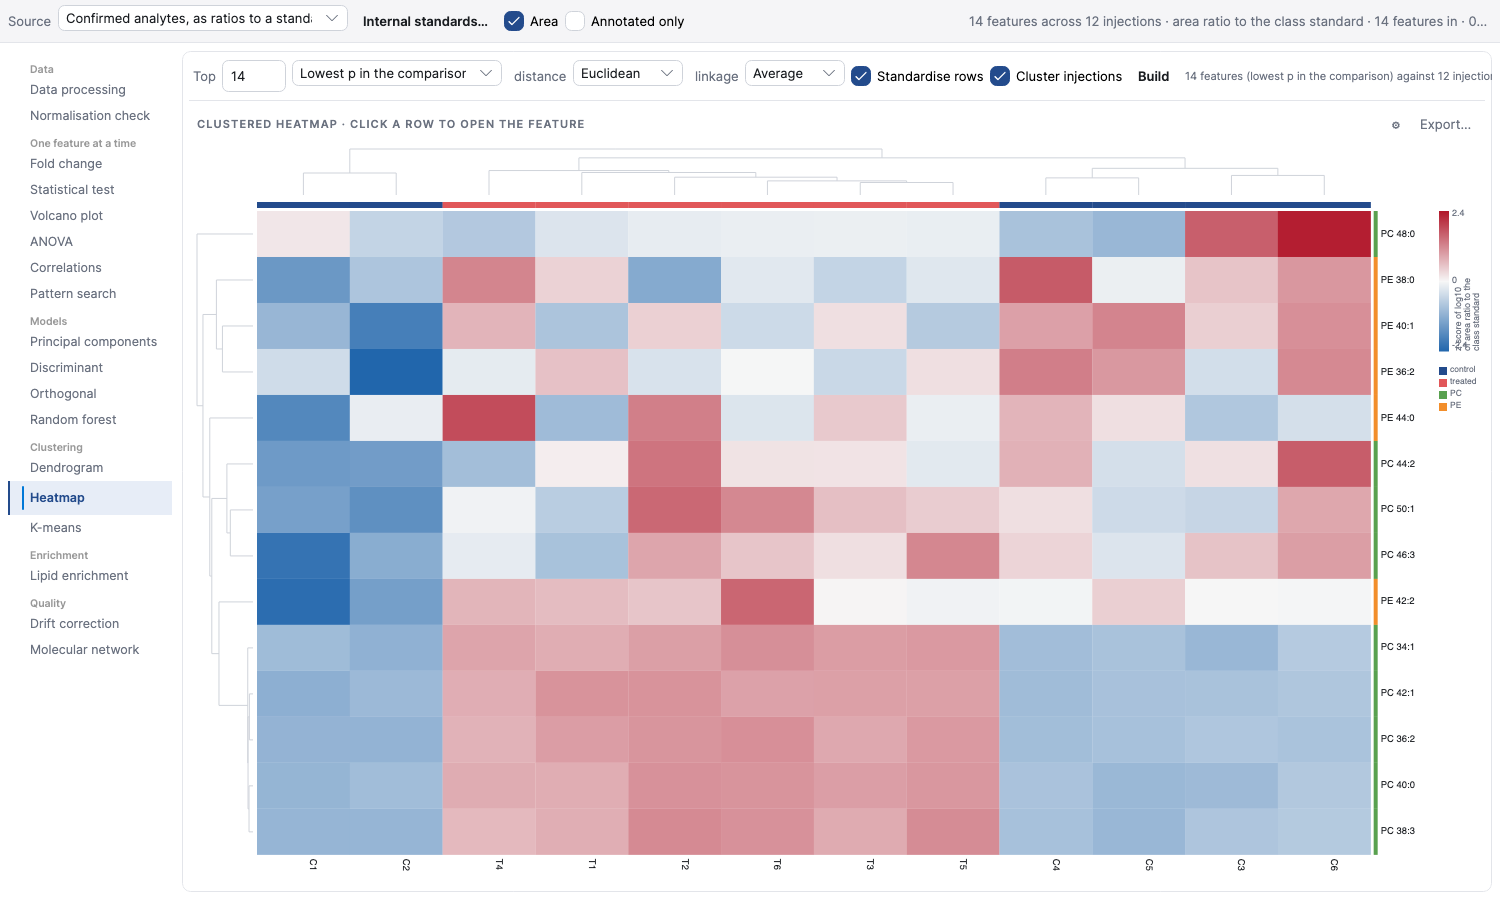
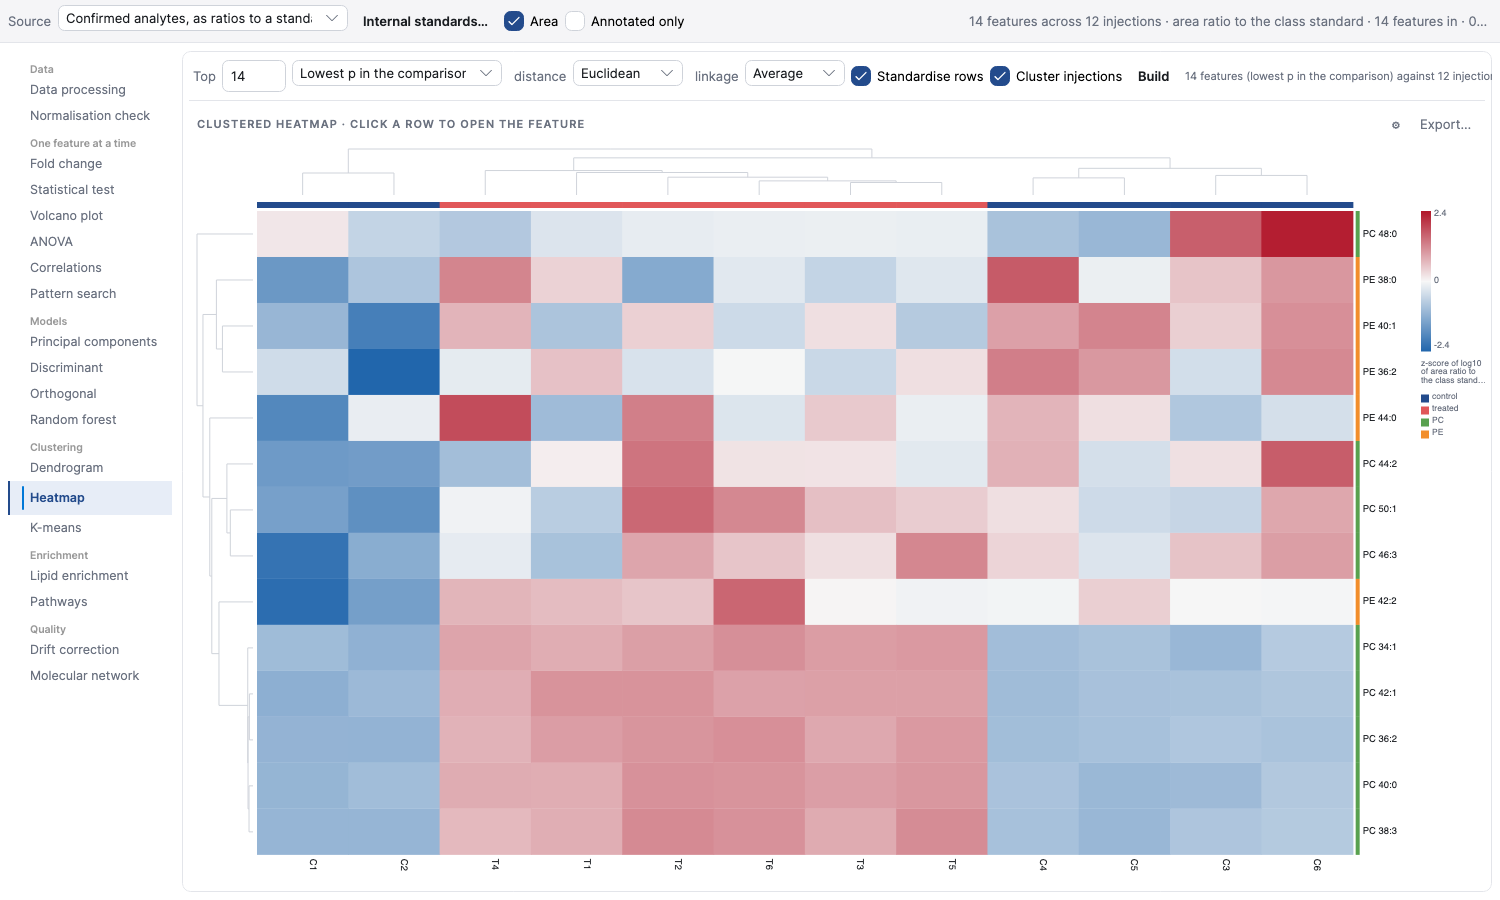
The legend keeps off the points, and the heatmap's value name off its numbers
A chart's legend goes to whichever corner of the plot has the least under it — points, point
labels, the reference lines' labels — so the volcano plot's named corner stays readable. The
heatmap's value name sits under the colour bar, wrapped to the column, instead of rotated across
the bar's numbers; the column is a little wider for it.

diff --git a/opendial/src/OpenDIAL.Desktop/Controls/ScatterChart.cs b/opendial/src/OpenDIAL.Desktop/Controls/ScatterChart.cs
@@ -118,6 +118,8 @@ public sealed class ScatterChart : ChartBase
     {
         var items = Items!;
         var colors = GroupColors();
+        // what the legend has to stay clear of: the reference lines' labels, every point, and every label drawn beside one
+        var occupied = new List<Rect>();
 
         foreach (var line in ReferenceLines ?? Array.Empty<ReferenceLine>())
         {
@@ -126,13 +128,23 @@ public sealed class ScatterChart : ChartBase
             {
                 var px = tx(line.Value);
                 ctx.DrawLine(pen, new Point(px, plot.Y), new Point(px, plot.Bottom));
-                if (line.Label is not null) ctx.DrawText(Text(line.Label, 9.5, MutedBrush), new Point(px + 3, plot.Y + 2));
+                if (line.Label is not null)
+                {
+                    var t = Text(line.Label, 9.5, MutedBrush);
+                    ctx.DrawText(t, new Point(px + 3, plot.Y + 2));
+                    occupied.Add(new Rect(px + 3, plot.Y + 2, t.Width, t.Height));
+                }
             }
             else
             {
                 var py = ty(line.Value);
                 ctx.DrawLine(pen, new Point(plot.X, py), new Point(plot.Right, py));
-                if (line.Label is not null) ctx.DrawText(Text(line.Label, 9.5, MutedBrush), new Point(plot.X + 4, py - 12 * FontScale));
+                if (line.Label is not null)
+                {
+                    var t = Text(line.Label, 9.5, MutedBrush);
+                    ctx.DrawText(t, new Point(plot.X + 4, py - 12 * FontScale));
+                    occupied.Add(new Rect(plot.X + 4, py - 12 * FontScale, t.Width, t.Height));
+                }
             }
         }
 
@@ -170,6 +182,7 @@ public sealed class ScatterChart : ChartBase
             var selected = ReferenceEquals(item, SelectedItem);
             var r = selected ? radius * 1.45 : radius;
             ctx.DrawEllipse(new SolidColorBrush(Color.FromArgb(selected ? (byte)255 : (byte)190, c.R, c.G, c.B)), selected ? new Pen(TextBrush, 1.5) : null, center, r, r);
+            occupied.Add(new Rect(center.X - r, center.Y - r, 2 * r, 2 * r));
         }
         if (ShowPointLabels || items.Any(i => i.Labelled))
         {
@@ -182,10 +195,11 @@ public sealed class ScatterChart : ChartBase
                 var box = new Rect(at, new Size(ft.Width, ft.Height));
                 if (placed.Any(p => p.Intersects(box))) continue;   // one label per patch of plot
                 placed.Add(box);
+                occupied.Add(box);
                 ctx.DrawText(ft, at);
             }
         }
-        if (ShowLegend) DrawLegend(ctx, plot, colors.Select(kv => (kv.Key, kv.Value)).ToList());
+        if (ShowLegend) DrawLegend(ctx, plot, colors.Select(kv => (kv.Key, kv.Value)).ToList(), occupied);
     }
 
     /// <summary>The 95 % confidence ellipse of a cloud of points: the covariance's axes, scaled by χ²(2) at 5 %.</summary>

diff --git a/opendial/src/OpenDIAL.Desktop/Controls/HeatmapChart.cs b/opendial/src/OpenDIAL.Desktop/Controls/HeatmapChart.cs
@@ -100,7 +100,7 @@ public sealed class HeatmapChart : Control, Charts.IChartRenderable
         var rowTreeW = ShowTrees && data.RowTree is not null && rows > 1 ? 60 : 0;
         var colTreeH = ShowTrees && data.ColumnTree is not null && cols > 1 ? 50 : 0;
         var stripH = data.ColumnGroups is not null ? 8 : 0;
-        var scaleW = 54;
+        var scaleW = 72;
         var left = 8 + rowTreeW;
         var top = titleH + colTreeH + stripH + 4;
         var cellsW = Math.Max(10, w - left - rowLabelW - scaleW - 16);
@@ -215,20 +215,22 @@ public sealed class HeatmapChart : Control, Charts.IChartRenderable
         ctx.DrawText(Text(max.ToString("0.##", CultureInfo.InvariantCulture), 9 * FontScale, muted), new Point(scaleX + 13, scaleTop - 2));
         ctx.DrawText(Text(min.ToString("0.##", CultureInfo.InvariantCulture), 9 * FontScale, muted), new Point(scaleX + 13, scaleTop + scaleH - 10));
         if (diverging) ctx.DrawText(Text("0", 9 * FontScale, muted), new Point(scaleX + 13, scaleTop + scaleH / 2 - 5));
+        // what the colours mean, in words, under the bar: wrapped to the column, three lines at most
+        var legendY = scaleTop + scaleH + 8;
         if (!string.IsNullOrEmpty(data.ValueName))
         {
-            var t = Text(data.ValueName, 9 * FontScale, muted);
-            t.MaxTextWidth = scaleW + 20;
-            using (ctx.PushTransform(Matrix.CreateRotation(-Math.PI / 2) * Matrix.CreateTranslation(w - 4, scaleTop + scaleH)))
-            {
-                ctx.DrawText(t, new Point(0, -t.Height));
-            }
+            var t = Text(data.ValueName, 8.5 * FontScale, muted);
+            t.MaxTextWidth = scaleW - 6;
+            t.MaxLineCount = 3;
+            t.Trimming = TextTrimming.CharacterEllipsis;
+            ctx.DrawText(t, new Point(scaleX, legendY));
+            legendY += t.Height + 8;
         }
 
         // legend of the group colours
         if (groups.Count > 0)
         {
-            var y = scaleTop + scaleH + 14;
+            var y = legendY;
             foreach (var g in groups.Take(12))
             {
                 ctx.DrawRectangle(new SolidColorBrush(ChartPalette.ForIndex(Dark, groups.IndexOf(g))), null, new Rect(scaleX, y + 2, 8, 8));

diff --git a/opendial/src/OpenDIAL.Desktop/Controls/ChartBase.cs b/opendial/src/OpenDIAL.Desktop/Controls/ChartBase.cs
@@ -398,7 +398,12 @@ public abstract class ChartBase : Control, Charts.IChartRenderable
     }
 
     /// <summary>Legend box drawn top-right of the plot with a translucent surface.</summary>
-    protected void DrawLegend(Charts.ChartCanvas ctx, Rect plot, IReadOnlyList<(string Label, Color Color)> entries)
+    /// <summary>
+    /// The legend goes in the corner of the plot with the least underneath it: the top right by
+    /// habit, but a volcano plot's named points live exactly there, and a legend over the finding
+    /// is worse than a legend in an odd place. <paramref name="occupied"/> is what it must avoid.
+    /// </summary>
+    protected void DrawLegend(Charts.ChartCanvas ctx, Rect plot, IReadOnlyList<(string Label, Color Color)> entries, IReadOnlyList<Rect>? occupied = null)
     {
         if (entries.Count == 0) return;
         var texts = entries.Select(e => Text(e.Label.Length > 40 ? e.Label[..39] + "…" : e.Label, 10.5, TextBrush)).ToList();
@@ -407,6 +412,19 @@ public abstract class ChartBase : Control, Charts.IChartRenderable
         var h = lineH * texts.Count + 8;
         var x = plot.Right - w - 8;
         var y = plot.Y + 8;
+        if (occupied is { Count: > 0 })
+        {
+            var corners = new[]
+            {
+                new Rect(plot.Right - w - 8, plot.Y + 8, w, h),
+                new Rect(plot.X + 8, plot.Y + 8, w, h),
+                new Rect(plot.Right - w - 8, plot.Bottom - h - 8, w, h),
+                new Rect(plot.X + 8, plot.Bottom - h - 8, w, h),
+            };
+            var best = corners.Select(c => (Rect: c, Hits: occupied.Count(o => c.Inflate(6).Intersects(o)))).OrderBy(c => c.Hits).First();
+            x = best.Rect.X;
+            y = best.Rect.Y;
+        }
         ctx.DrawRectangle(new SolidColorBrush(Color.FromArgb(0xD8, SurfaceColor.R, SurfaceColor.G, SurfaceColor.B)), new Pen(GridBrush, 1), new Rect(x, y, w, h), 5, 5);
         for (var i = 0; i < texts.Count; i++)
         {

diff --git a/opendial/docs/manual/versions.md b/opendial/docs/manual/versions.md
@@ -20,6 +20,7 @@ The current version. It tracks MS-DIAL 5.5.260817.
 - The reaction weights are compared as BioPAN compares them — the ratios themselves, not their logs — and the thresholds are BioPAN's, one-sided: 1.282, 1.645 (default), 2.054, 2.326.
 - Every gene in the table is the human symbol; BioPAN's mouse `Scd1` and `Scd3` are `SCD` and `SCD5`.
 - **Paired** on the Pathways page: BioPAN's paired comparison, the injections of the two classes taken one to one in order.
+- A chart's legend goes to the corner with the least under it, so the volcano plot's named corner stays readable; the heatmap's value name sits under the colour bar instead of across its numbers.
 - The species level follows BioPAN's rule for the chain reactions: a step that releases a chain is drawn only when that fatty acid is measured, one that adds a chain only when its acyl-CoA is. The fatty-acid level is the free fatty acids measured, as BioPAN's is, not the chains of the other lipids.
 - The design notes say where the two agree (the pathway score is the same number) and where they do not (the species-level chain rule, the extensions).
 

diff --git a/opendial/docs/manual/chart-export.md b/opendial/docs/manual/chart-export.md
@@ -23,7 +23,7 @@ charts, the heatmaps, the dendrogram and the network.
 | **Palette** | the colours of the groups: **Tableau** (the default, ten colours), **Okabe-Ito** (eight, safe for every kind of colour blindness), **Grey** (for a black-and-white figure) or **Accent** | scatter, box, bar, rank |
 | **Colour scale** | the scale of a heatmap: **Blue–white–red** (diverging, for z-scores and fold changes, white at zero), **Viridis** (sequential, perceptually uniform), **Greys**, or **Green–black–red** (the microarray convention) | heatmap, chain map, correlations |
 | **Grid** | the grid lines behind the plot | scatter, box, bar |
-| **Legend** | the legend of the groups | scatter, line |
+| **Legend** | the legend of the groups; it sits in whichever corner of the plot has the least under it, so it never covers the named points of a volcano plot | scatter, line |
 | **Labels** | the names beside the points, or the row labels of a heatmap | scatter, heatmap |
 | **Ellipses** | the 95 % confidence ellipse of each class on a score plot | scatter |
 | **Trees** | the dendrograms beside a heatmap | heatmap |
